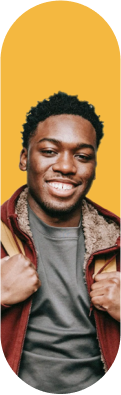
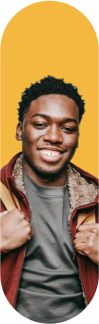
home page fix

diff --git a/index.html b/index.html
@@ -40,9 +40,6 @@
             <li class="nav-item">
               <a class="nav-link p-0" href="#">About US</a>
             </li>
-            <li class="nav-item">
-              <a class="nav-link p-0" href="#">Testimonials</a>
-            </li>
           </ul>
           <div class="hire-btn">
             <a href="#" class="bebas-font">Hire NOw</a>
@@ -56,30 +53,32 @@
   <!-- ================================  -->
   <!-- BANNER SECTION -->
   <section class="w-100 float-left banner-con">
-    <div class="wrapper">
+    <div class="wrapper2">
       <div class="banner-inner-con w-100 float-left d-lg-flex align-items-center">
         <div class="banner-text position-relative">
           <h1 class="text-uppercase text-white bebas-font d-inline-block position-relative" data-aos="fade-up" data-aos-duration="600">Hire Skilled and <br>
             Experienced Boffins</h1>
             <div class="banner-img">
-              <figure class="mb-0 d-inline-block">
-                <img src="assets/images/banner-img1.png" alt="banner-img">
-              </figure>
-              <figure class="mb-0 d-inline-block">
-                <img src="assets/images/banner-img2.png" alt="banner-img">
-              </figure>
-              <figure class="mb-0 d-inline-block">
-                <img src="assets/images/banner-img3.png" alt="banner-img">
-              </figure>
-              <figure class="mb-0 d-inline-block">
-                <img src="assets/images/banner-img4.png" alt="banner-img">
-              </figure>
-              <figure class="mb-0 d-inline-block">
-                <img src="assets/images/banner-img5.png" alt="banner-img">
-              </figure>
-              <figure class="mb-0 d-inline-block">
-                <img src="assets/images/banner-img6.png" alt="banner-img">
-              </figure>
+              <div class="position-relative">
+                <figure class="mb-0 d-inline-block">
+                  <img src="assets/images/banner-img1.png" alt="banner-img">
+                </figure>
+                <figure class="mb-0 d-inline-block">
+                  <img src="assets/images/banner-img2.png" alt="banner-img">
+                </figure>
+                <figure class="mb-0 d-inline-block">
+                  <img src="assets/images/banner-img3.png" alt="banner-img">
+                </figure>
+                <figure class="mb-0 d-inline-block">
+                  <img src="assets/images/banner-img4.png" alt="banner-img">
+                </figure>
+                <figure class="mb-0 d-inline-block">
+                  <img src="assets/images/banner-img5.png" alt="banner-img">
+                </figure>
+                <figure class="mb-0 d-inline-block">
+                  <img src="assets/images/banner-img6.png" alt="banner-img">
+                </figure>
+              </div>
             </div>
           <p class="color-E4E4E4 NexaBold-font" data-aos="fade-up" data-aos-duration="600">Hire top remote talent that works as an extension of your team. Bring <br> your hiring costs down to zero and close your internal skills gap. Get <br> started with a risk-free, one-week trial.</p>
           <div class="see-btn" data-aos="fade-up" data-aos-duration="600">
@@ -94,23 +93,23 @@
   <section class="w-100 float-left tastimonials-con">
     <div class="generic-title text-center">
       <span class="text-uppercase d-inline-block color-C84CFF NexaBold-font position-relative" data-aos="fade-up" data-aos-duration="600">TESTIMONIALS</span>
-      <h3 class="text-uppercase text-white bebas-font" data-aos="fade-up" data-aos-duration="600">What Our Customer Says!</h3>
+      <h2 class="text-uppercase text-white bebas-font" data-aos="fade-up" data-aos-duration="600">What Our Clients Say!</h2>
     </div>
-    <div class="loop owl-carousel owl-theme" data-aos="fade-up" data-aos-duration="600">
+    <div class="loop owl-carousel owl-theme">
       <div class="item">
-        <div class="tastimonials-box text-center  position-relative">
-          <figure>
-            <img src="assets/images/quote-icon.png" alt="quote-icon">
-          </figure>
-          <p>Top Boffin has developed a great way for UK companies to tap into a <br>
-            well-educated and technically adept workforce based in Pakistan. On every level, they <br> have exceeded our
-            expectations and set a fine example which many UK companies <br> would do well to follow!
-          </p>
-        </div>
-        <div class="auther-con text-center d-flex align-items-center justify-content-center flex-column">
-          <span class="text-white">Neil Smith</span>
-          <small class="color-C84CFF">Managing Director</small>
-        </div>
+          <div class="tastimonials-box text-center  position-relative">
+            <figure>
+              <img src="assets/images/quote-icon.png" alt="quote-icon">
+            </figure>
+            <p>Top Boffin has developed a great way for UK companies to tap into a <br>
+              well-educated and technically adept workforce based in Pakistan. On every <br> level, they have exceeded our
+              expectations and set a fine example which many <br> UK companies  would do well to follow!
+            </p>
+          </div>
+          <div class="auther-con text-center d-flex align-items-center justify-content-center flex-column">
+            <span class="text-white">Neil Smith</span>
+            <small class="color-C84CFF">Managing Director</small>
+          </div>
       </div>
       <div class="item">
         <div class="tastimonials-box text-center  position-relative">

diff --git a/assets/css/custom.css b/assets/css/custom.css
@@ -15,7 +15,7 @@ a:hover {
 body{
     font-size: 20px;
     color: #C4C4C4;
-    line-height: 35 px;
+    line-height: 35px;
     background: #090909;
     font-family: 'NexaRegular';
 }
@@ -39,7 +39,7 @@ body{
 .header-con .nav-item a:after{
     left:0;
     content: "";
-    bottom: -10px;
+    bottom: -8px;
     height: 2.2px;
     width: 25.61px;
     position: absolute;
@@ -48,7 +48,7 @@ body{
 .header-con .nav-item a::before{
     left:0;
     content: "";
-    bottom: -10px;
+    bottom: -8px;
     height: 2.2px;
     width: 0;
     position: absolute;
@@ -109,20 +109,20 @@ body{
     transition: all 0.6s ease-in-out;
 }
 .banner-con{
-    padding-top: 117px;
-    padding-bottom: 110px;
+    padding-top:173px;
 }
-.banner-img figure img{
-    position: relative;
+.banner-img figure img {
+    position: absolute;
 }
 .banner-text p{
     line-height: 31px;
     margin-bottom: 19px;
 }
 .banner-img figure:first-child img{
-    left: 0;
-    animation: mover1 1s infinite alternate;
-    -webkit-animation: mover1 1s infinite alternate;
+    left: -104px;
+    top: -65px;
+    /* animation: mover1 1s infinite alternate;
+    -webkit-animation: mover1 1s infinite alternate; */
 }
 @keyframes mover1 {
     0% { transform: translateY(0); }
@@ -131,48 +131,48 @@ body{
 .banner-img figure:nth-child(2) img {
     left: 5px;
     top: -152px;
-    animation: mover2 1.5s infinite alternate;
-    -webkit-animation: mover2 1.5s infinite alternate;
+    /* animation: mover2 1.5s infinite alternate;
+    -webkit-animation: mover2 1.5s infinite alternate; */
 }
 @keyframes mover2 {
     0% { transform: translateY(0); }
     100% { transform: translateY(-10px); }
 }
 .banner-img figure:nth-child(3) img {
-    left: 16px;
-    top: 30px;
-    animation: mover3 2s infinite alternate;
-    -webkit-animation: mover3 2s infinite alternate;
+    top: -14px;
+    right: 103px;
+    /* animation: mover3 2s infinite alternate;
+    -webkit-animation: mover3 2s infinite alternate; */
 }
 @keyframes mover3 {
     0% { transform: translateY(0); }
     100% { transform: translateY(-10px); }
 }
 .banner-img figure:nth-child(4) img {
-    left: 136px;
-    top: -187px;
-    animation: mover4 2.5s infinite alternate;
-    -webkit-animation: mover4 2.5s infinite alternate;
+    left: 5px;
+    top: 89px;
+    /* animation: mover4 2.5s infinite alternate;
+    -webkit-animation: mover4 2.5s infinite alternate; */
 }
 @keyframes mover4 {
     0% { transform: translateY(0); }
     100% { transform: translateY(15px); }
 }
 .banner-img figure:nth-child(5) img{
-    left: -125px;
-    top: -55px;
-    animation: mover5 3s infinite alternate;
-    -webkit-animation: mover5 3s infinite alternate;
+    left: -106px;
+    top: 268px;
+    /* animation: mover5 3s infinite alternate;
+    -webkit-animation: mover5 3s infinite alternate; */
 }
 @keyframes mover5 {
     0% { transform: translateY(0); }
     100% { transform: translateY(10px); }
 }
 .banner-img figure:last-child img{
-    left: 16px;
-    top: -51px;
-    animation: mover6 3.5s infinite alternate;
-    -webkit-animation: mover6 3.5s infinite alternate;
+    left: 118px;
+    top: 249px;
+    /* animation: mover6 3.5s infinite alternate;
+    -webkit-animation: mover6 3.5s infinite alternate; */
 }
 @keyframes mover6 {
     0% { transform: translateY(0); }
@@ -181,15 +181,18 @@ body{
 .banner-text{
     float: left;
     width: 100%;
+    height: 642.91px;
 }
 .banner-img {
+    top: 0;
+    float: left;
+    right: -102px;
     width: 319.25px;
-    height: 642.91px;
     position: absolute;
 }
 .tastimonials-con .generic-title span{
-    font-size: 18px;
-    line-height: 18px;
+    font-size: 16px;
+    line-height: 16px;
     margin-bottom: 17px;
 }
 .tastimonials-con .generic-title span::after{
@@ -202,22 +205,20 @@ body{
     position: absolute;
     transform: translatex(-50%);
 }
-
-.tastimonials-con .generic-title h3 {
-    margin-bottom: 158px;
-}
 .tastimonials-box > figure{
-    margin-bottom: 42px;   
+    top: -36px;
+    left: 50%;
+    position: absolute;
+    transform: translatex(-50%);
 }
 .tastimonials-box p{
-    font-size: 18px;
-    line-height: 35px;
     color: #000;
 }
 .owl-item.active.center .auther-con span{
     font-size: 27.6127px;
     line-height: 27px;
     display: block;
+    opacity: 1;
     margin-bottom: 10px;
 }
 .owl-item .auther-con span{
@@ -230,6 +231,7 @@ body{
 .owl-item.active.center .auther-con small{
     font-size: 20.7095px;
     line-height: 20px;
+    opacity: 1;
 }
 .owl-item .auther-con small{
     font-size: 14.6003px;
@@ -256,10 +258,11 @@ body{
     border-radius: 16.1074px;
     opacity: 1;
     box-shadow: 0px 4.60212px 80.537px rgb(0 0 0 / 4%);
-    padding: 46px 49px 115px;
+    padding: 98px 49px 74px;
     top: -100px;
 }
 .owl-item.active.center .tastimonials-box p{
+    opacity: 1;
     color: #000;
 }
 .owl-item .item .tastimonials-box{
@@ -282,9 +285,20 @@ body{
     background: #1B1B1B;
     border-radius: 50%;
     position: absolute;
-    bottom: -37px;
+    bottom: -65px;
     left: 50%;
     transform: translatex(-50%);
+}
+.tastimonials-con .generic-title{
+    margin-bottom: 200px;
+}
+.owl-item .item .tastimonials-box img,
+.owl-item .item .tastimonials-box p{
+    opacity: 0.5;
+}
+.owl-item.active.center .item .tastimonials-box img,
+.owl-item.active.center .item .tastimonials-box img{
+    opacity: 1;
 }
 .owl-item .auther-con{
     width: 181.37px;

diff --git a/assets/css/special.css b/assets/css/special.css
@@ -54,7 +54,7 @@ h1{
 h2{
     font-size: 42px;
     line-height: 55px;
-    letter-spacing: 0.145em;
+    /* letter-spacing: 0.145em; */
 }
 h3{
     font-size: 40px;
